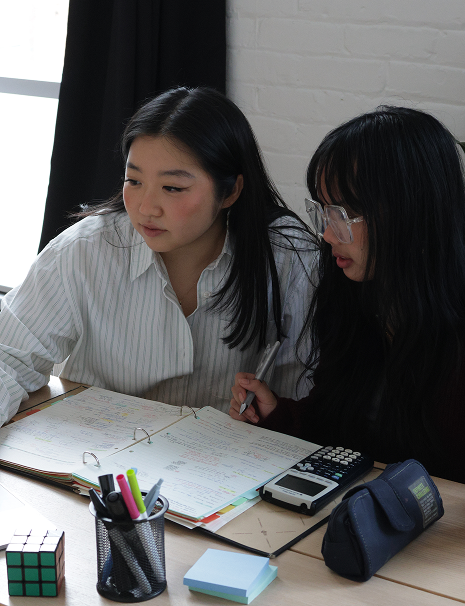
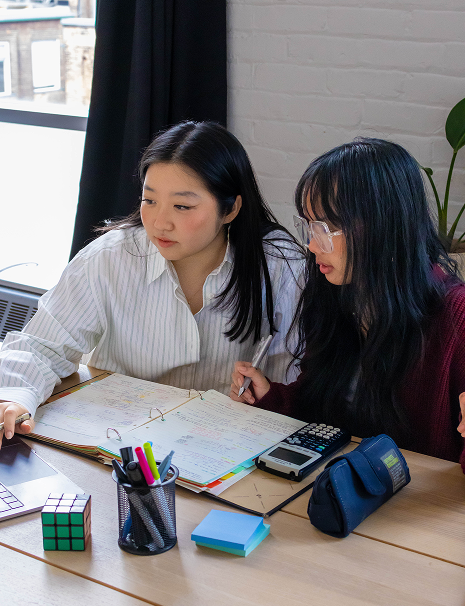
Changed Images to edited images still need to change image file to a more better web version

diff --git a/src/components/About-Page/About-Profile.jsx b/src/components/About-Page/About-Profile.jsx
@@ -5,7 +5,7 @@ export default function AboutProfile() {
         <section className="flex flex-col lg:flex-row items-stretch">
           <div className="lg:w-1/3 w-full">
             <img
-              src="/imgs/about-profile.jpg"
+              src="/imgs/about-profile.png"
               alt="Profile"
               className="w-full h-full object-cover rounded-lg shadow-lg"
             />
